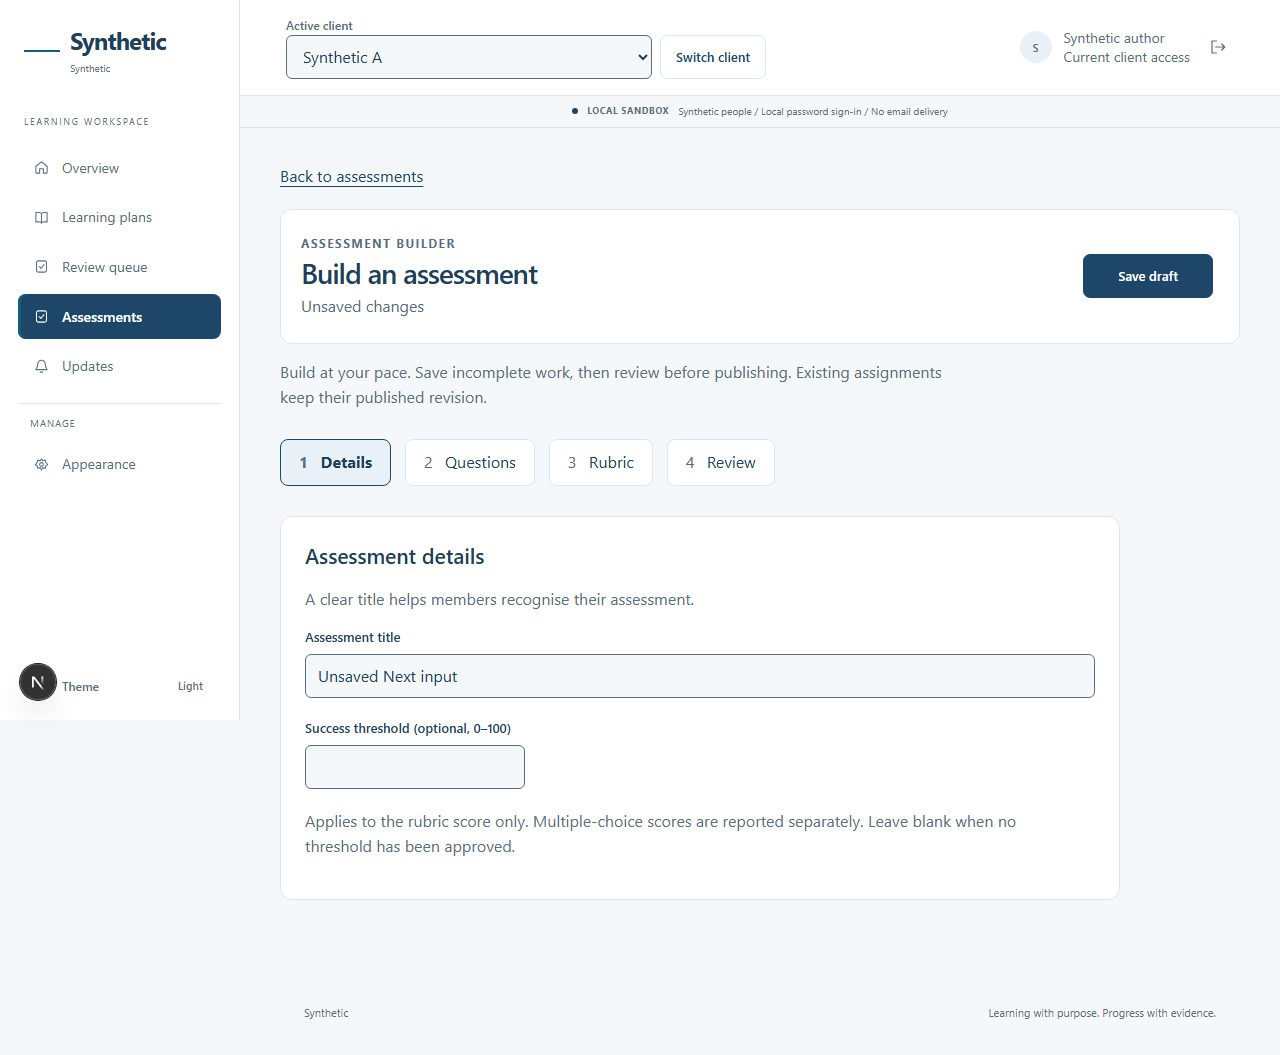
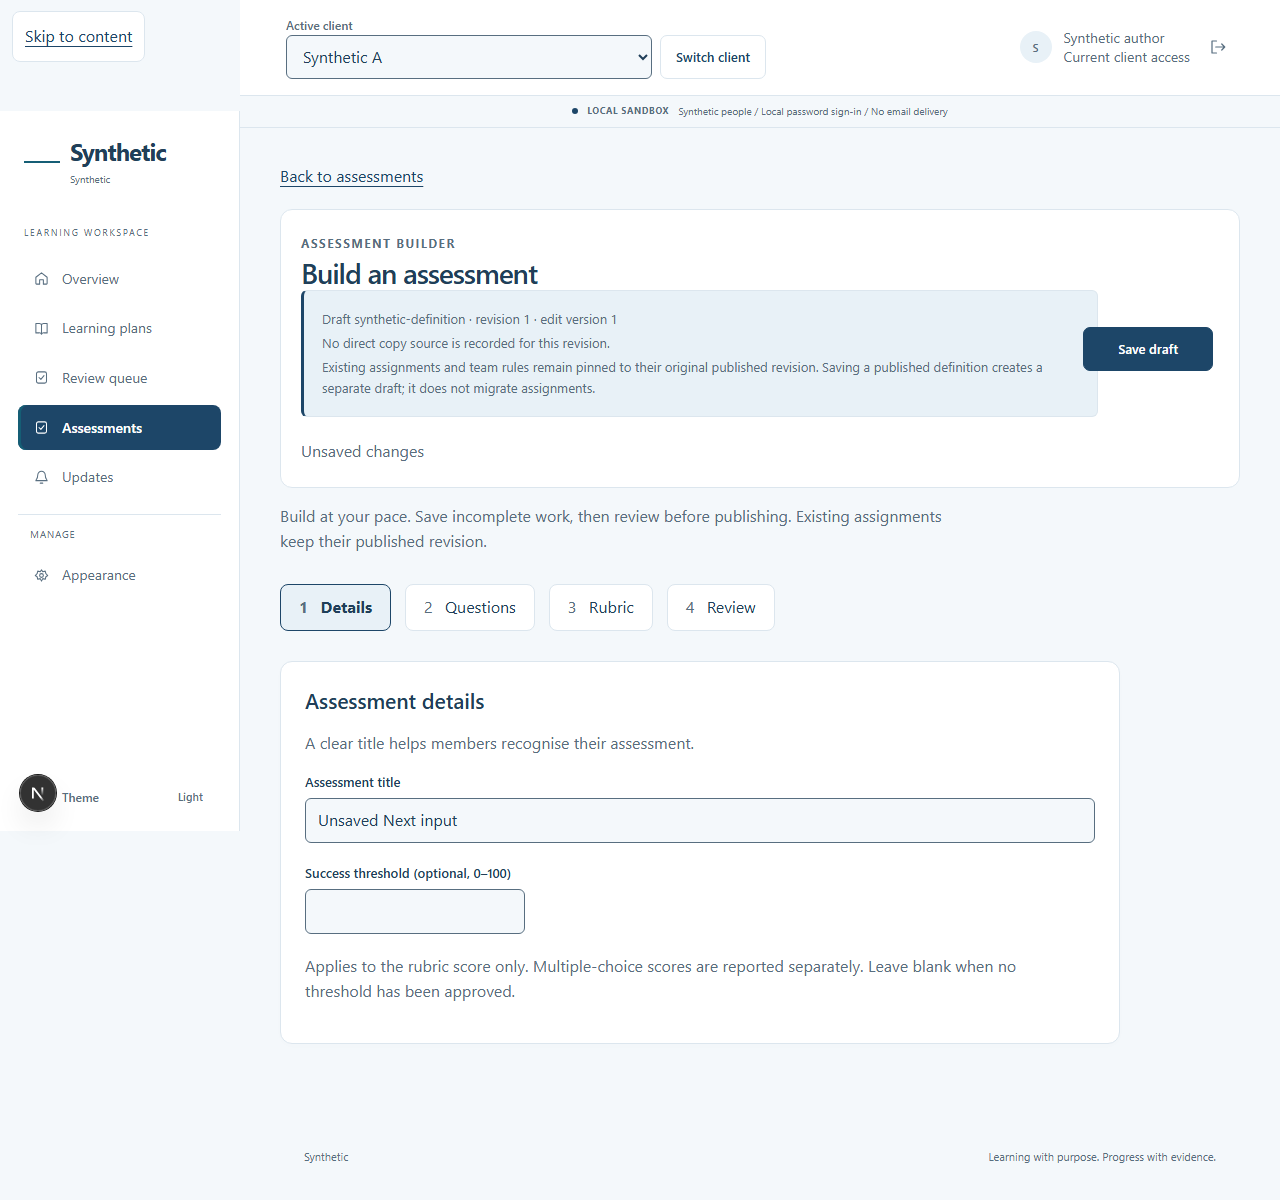
docs: hand off workflow implementation evidence and deferred policy

diff --git a/docs/assessment-workflow-implementation/package-implementation-evidence.py b/docs/assessment-workflow-implementation/package-implementation-evidence.py
@@ -1,0 +1,27 @@
+"""Package only this stage's Git-tracked evidence; never runtime or upstream untracked files."""
+from pathlib import Path
+import hashlib
+import json
+import subprocess
+import zipfile
+
+root = Path.cwd()
+evidence = Path('docs/assessment-workflow-implementation')
+base = '79f8cee43fea1c5c160a0c94bc202931e8ae031b'
+commit = subprocess.check_output(['git', 'rev-parse', 'HEAD'], text=True).strip()
+paths = subprocess.check_output(['git', 'diff', '--name-only', base, commit, '--', str(evidence)], text=True).splitlines()
+paths = sorted(p for p in paths if Path(p).suffix in {'.md', '.log', '.png'})
+manifest = {'base': base, 'commit': commit, 'files': []}
+archive = root / evidence / 'implementation-evidence.zip'
+with zipfile.ZipFile(archive, 'w', zipfile.ZIP_DEFLATED) as z:
+    for name in paths:
+        data = (root / name).read_bytes()
+        manifest['files'].append({'path': name, 'bytes': len(data), 'sha256': hashlib.sha256(data).hexdigest()})
+        z.writestr(name, data)
+    z.writestr('manifest.json', json.dumps(manifest, indent=2))
+with zipfile.ZipFile(archive) as z:
+    assert z.testzip() is None
+    assert len(z.namelist()) == len(paths) + 1
+    for entry in manifest['files']:
+        assert hashlib.sha256(z.read(entry['path'])).hexdigest() == entry['sha256']
+print(json.dumps({'archive': str(archive), 'commit': commit, 'payload_files': len(paths), 'entries': len(paths)+1, 'bytes': archive.stat().st_size, 'sha256': hashlib.sha256(archive.read_bytes()).hexdigest()}, indent=2))

diff --git a/docs/assessment-workflow-implementation/IMPLEMENTATION-HANDOFF.md b/docs/assessment-workflow-implementation/IMPLEMENTATION-HANDOFF.md
@@ -1,0 +1,83 @@
+# Validated workflow safeguards — backend implementation handoff
+
+## Status and exact candidate
+
+**Implementation stage complete; release existing independent QA child `t_a93de53c`. Not merged, deployed, independently accepted or owner accepted.** Parent consumed: `79f8cee43fea1c5c160a0c94bc202931e8ae031b` and its QA-prerequisites-handoff.md. Branch `feature/assessment-workflow-improvements`, isolated `tat-assessment-workflow` only; sibling D05 commit preserved. Tested code commit: `71d9a0bf06d979930a996eced387f9559a71ccb4`. The following handoff-only commit adds this report and latest integrated screenshot; use the final Kanban commit for checkout.
+
+## Acceptance / D01–D08 disposition
+
+| Item | Implemented or explicitly deferred | Evidence |
+|---|---|---|
+| D01 | Shared page-memory dirty/pending/uncertain guard for author, learner and reviewer work. Context/logout asks before POST; Stay sends zero mutation. Literal links, Chromium history, real Next sidebar, reload/unload; clean and accepted-leave controls. Unknown/stale reviewer writes stop and retained values survive readback. Confirmed file/review receipts clear only confirmed baselines. | D01 RED/GREEN logs, D01-final-followup.md; FINAL-browser.log and FINAL-next.log. |
+| D02 | **Policy-deferred, not fixed.** Teamless open-appeal dead-end remains reproduced by real domain test. No invented roles/team, admin override or permission broadening. | QA-prerequisites-handoff.md D02; final 40-test domain run still includes reproduction. |
+| D03 | Unknown publication no longer claims definitive failure. Exact-ID/client readback distinguishes published/draft/denied/unavailable; no blind publication retry. 409 stops draft writes; private local structured content retained with explicit authorized comparison. Unknown save replays same operation before newer typing. | D03-handoff.md; RED and GREEN logs; four readback states, conflict and replay browser assertions. |
+| D04 | Persistent non-recording preview scope, saved revision versus current unsaved content, common section/question references from full pinned question order. No keys or private rubric released. | D04-handoff.md; initial RED/GREEN and final reordered-current versus historical-pinned renderer check. |
+| D05 | Preserved upstream approved/pending/earlier-approved-new-current copy and permissions; no new feature. | All three desktop/375px component checks pass again; implementation-screenshots/D05-*. |
+| D06 | **New queue deferred.** Existing exact-ID Assign assessment handoff verified; no evidence warrants new queue/authority/counts. | D06 browser assertion and existing assignment domain regressions. |
+| D07 | Distinct explicitly member-safe rejection guidance, separately encrypted/immutable/current-attempt-bound. Member sees changes requested without private rationale, history or released grade; revised draft retains guidance, new immutable attempt removes old guidance. | D07-handoff.md; domain/browser RED/GREEN and full final suites. |
+| D08 | New copies persist immutable direct source definition ID/publication revision; builder shows new draft ID/revision versus edit version, source and unchanged assignment/team pins, including reload. No inferred legacy parent. | D08-handoff.md; domain/browser RED/GREEN, copy-save replay and 375px layout regression. |
+
+### D02 decision required from orchestrator/owner
+
+Specify eligible teamless alternates and exact case-scoped live/revocable authority record, grantor, distinct sensitive-access requirements, expiry/revocation/closure semantics and explicit recovery/rerouting of already-open cases. Must exclude learner/prior reviewer/router, bind exact case/attempt/evidence, deny unrelated training/files, and prevent grant revival. Preserve learner edit pause during appeal. This was expressly deferred in the approved prerequisite handoff; do not block independent testing of the implemented work or treat D02 as solved.
+
+## Local implementation commits
+
+- `3a019092d575935878322643089d74672c420822` — D01 navigation/context/reviewer safeguards.
+- `a0d6e0c7b301be517623be639d22e5ffc6123be4` — D03 exact publication reconciliation/conflict stop.
+- `b447bb27ff8061cd096e81f6cc64e14c0b312ada` — D04 preview/reference clarity.
+- `ce514c7a53c2db5c78ebc5a19d8e514e1e7f39f4` — D07 distinct member-safe return guidance.
+- `93158a63774c342cd04bf7f14a58d0d78526ca55` — D08 immutable direct copy provenance.
+- `71d9a0bf06d979930a996eced387f9559a71ccb4` — D01 learner integration/confirmed clean-state recovery and consolidated regressions.
+
+Each bounded production behavior has genuine failing desired-contract evidence before its implementation. Initial harness startup/env-detection/timing failures remain in logs but are not counted as product RED evidence. D01 follow-up REDs separately establish confirmed-receipt dirty-state and learner context ordering defects. Additional post-implementation reorder/replay/layout checks are regression coverage, not represented as new RED cycles.
+
+## Files and contracts
+
+Production:
+- `apps/web/app/components/{work-guard.ts,use-work-guard.ts,app-shell.tsx}`.
+- `apps/web/app/components/assessment-builder/{builder.js,builder.d.ts}`.
+- `apps/web/app/components/{assessment-review.tsx,assessment-response.tsx,response-questions.tsx,question-reference.ts}`.
+- `apps/api/src/main.ts` (optional return-feedback parsing/pass-through; unrelated diff hunks are formatter-only).
+- `packages/domain/src/{assessment-reviews.ts,assessment-definitions.ts}`.
+- `packages/database/migrations/0032_assessment_return_feedback.sql` and `0033_assessment_copy_source.sql`.
+
+Tests/runtime:
+- `tests/assessment-{definitions,reviews}.test.ts` plus unchanged content/scoring/assignments/responses suites.
+- `tests/workflow-qa-browser/{workflow.spec.ts,learner-guard.spec.ts,d05.spec.ts,next-server.cjs}`.
+- `tests/workflow-next-browser/navigation.spec.ts`, `playwright.workflow-next.config.ts`.
+
+Additive API/domain contracts:
+- Review decision accepts optional `return_feedback`, trimmed 8–4000 UTF-16 code units; rejection-only. Web rejection requires it, but existing API callers omitting it remain compatible. Never fall back to private `reason`. Domain projection adds `returned: {attemptId,decisionId,returnedAt,feedback} | null`.
+- Definition save/exact replay adds `revision`, `source_definition_id`, `source_revision`; existing fields unchanged. Definition GET remains author-authorized. No new source-read endpoint or expanded grants.
+- Migration0032 adds nullable encrypted rejection guidance with rejection-only check, retaining existing immutable/RLS protections. No private historical data backfill.
+- Migration0033 adds paired nullable direct-source fields, same-tenant/environment/source-revision FK, no-self check and immutable provenance trigger. Existing records stay null; no inferred lineage, historical edit or pin migration. Run migrations only through normal approved deployment workflow; this task applied them solely to disposable synthetic PGlite.
+
+## Actual final execution
+
+All from isolated workspace with installed lockfile dependencies. No installation or approval bypass in this implementation stage. Domain invocation first exported `TEMP="$HERMES_KANBAN_WORKSPACE/.runtime/qa-temp"`, `TMP` and `TMPDIR` to that same absolute path. The explicit Node temp/free-port check ran before database fixtures.
+
+1. `node docs/assessment-workflow-implementation/qa-port-check.cjs` — exit0, worktree Node temp and free55439 verified (`FINAL-isolation.log`).
+2. `node node_modules/vitest/vitest.mjs run tests/assessment-reviews.test.ts tests/assessment-definitions.test.ts tests/assessment-content.test.ts tests/assessment-scoring.test.ts tests/assessment-assignments.test.ts tests/assessment-responses.test.ts --hookTimeout=180000` — **6 files, 40 passed**, 97.02s, exit0 (`FINAL-domain.log`). Real domain/auth/tenancy/services and SQL migrations, fresh PGlite. Includes authority, private-result separation, immutable submission/copy/source, save-token replay, pinned assignments/team rules and D02 reproduction.
+3. `node node_modules/playwright/cli.js test -c playwright.workflow-qa.config.ts` — **22 passed**, 34.2s, exit0 (`FINAL-browser.log`). Actual components, headless Chromium, intercepted synthetic transport. Context-order tests replace Next hook seams explicitly; they do not authenticate to a real API.
+4. `node node_modules/playwright/cli.js test -c playwright.workflow-next.config.ts` — **1 passed**, 1.5m, exit0 (`FINAL-next.log`). Actual isolated Next renderer on127.0.0.1:3275, real sidebar/history lifecycle, synthetic API transport. Allowlisted environment, no copied runtime, AI/email disabled, API origin127.0.0.1:9, no API/worker/database process. Initial .env.example false-positive and hydration timing issues were corrected before the passing runs.
+5. `npm run typecheck` — server plus web exit0 (`FINAL-typecheck.log`).
+6. Prettier on changed TS/TSX tests/components; `git diff --cached --check -- . ':!*.log'` passed before implementation commits. Logs retain original output, hence excluded from whitespace checks.
+
+No protected3100/3150 connection/browser interaction, live email, paid AI, real credentials, main/preview DB, native desktop, push, merge or deployment. Final tests use only synthetic fixtures and isolated storage. The parent documents its earlier Windows temp-location deviation; final contained evidence supersedes prior qualification logs. Upstream untracked tooling diagnostics/QA archive/screenshots were left intact, not staged. D05 parent screenshots were restored after reruns and subsequent output redirected to implementation-screenshots.
+
+## Screenshots and inspection
+
+`implementation-screenshots/` contains canceled context/reviewer work, reconciliation states, private conflict comparison, preview/references, preserved D05 states, member return guidance, and desktop/narrow copy provenance. `D01-next-canceled.png` records real Next retained author edits. Visually inspected integrated Next, member-safe guidance, copy provenance desktop and cropped375px provenance: text wraps without clipping/overlap in these samples. Not every screenshot received separate visual review. Browser assertions additionally check no375px page overflow for D05 and D08.
+
+## Limitations / independent QA handoff
+
+- PGlite is **not PostgreSQL RLS/concurrency/migration-lock qualification**. Fresh migrations pass; populated real-PostgreSQL deployment remains untested/unapproved.
+- No full repository suite, production build, scanner/worker qualification, real authenticated browser-to-API-to-DB lifecycle, screen-reader audit, physical-device or human comprehension/owner acceptance is claimed.
+- Navigation history interception uses Chromium Navigation API with native beforeunload fallback; other browser engines/version support and back-forward-cache behavior remain independent compatibility qualification, not a claimed universal guarantee.
+- D04 historical/reorder coverage is renderer-level plus real domain pin regressions, not a full persisted browser reorder-to-history journey.
+- Work stays in page memory. Forced tab termination/browser refusal to show a leave prompt cannot guarantee persistence. No private localStorage/sessionStorage introduced. No claim that unrelated application forms/uploads are now universally guarded.
+- `ux-engine` and `playwright` skills unavailable; reported rather than pretended loaded. Actual Playwright package executed. TDD, systematic-debugging and dogfood loaded.
+- D01-checkpoint.md and D04-handoff.md were intermediate records; the final logs and this disposition supersede their pending implementation checks. Broader compatibility/accessibility qualification remains explicitly bounded above.
+
+**Next:** existing QA child independently checks final exact commit, D05 and implemented changes, desktop/narrow states, and build/full-suite where isolated support permits. Report failures to orchestrator for the existing correction loop; do not merge or infer acceptance. D02 decision belongs to orchestrator/owner; D06 remains evidence-deferred. No duplicate task or same-card review needed.
